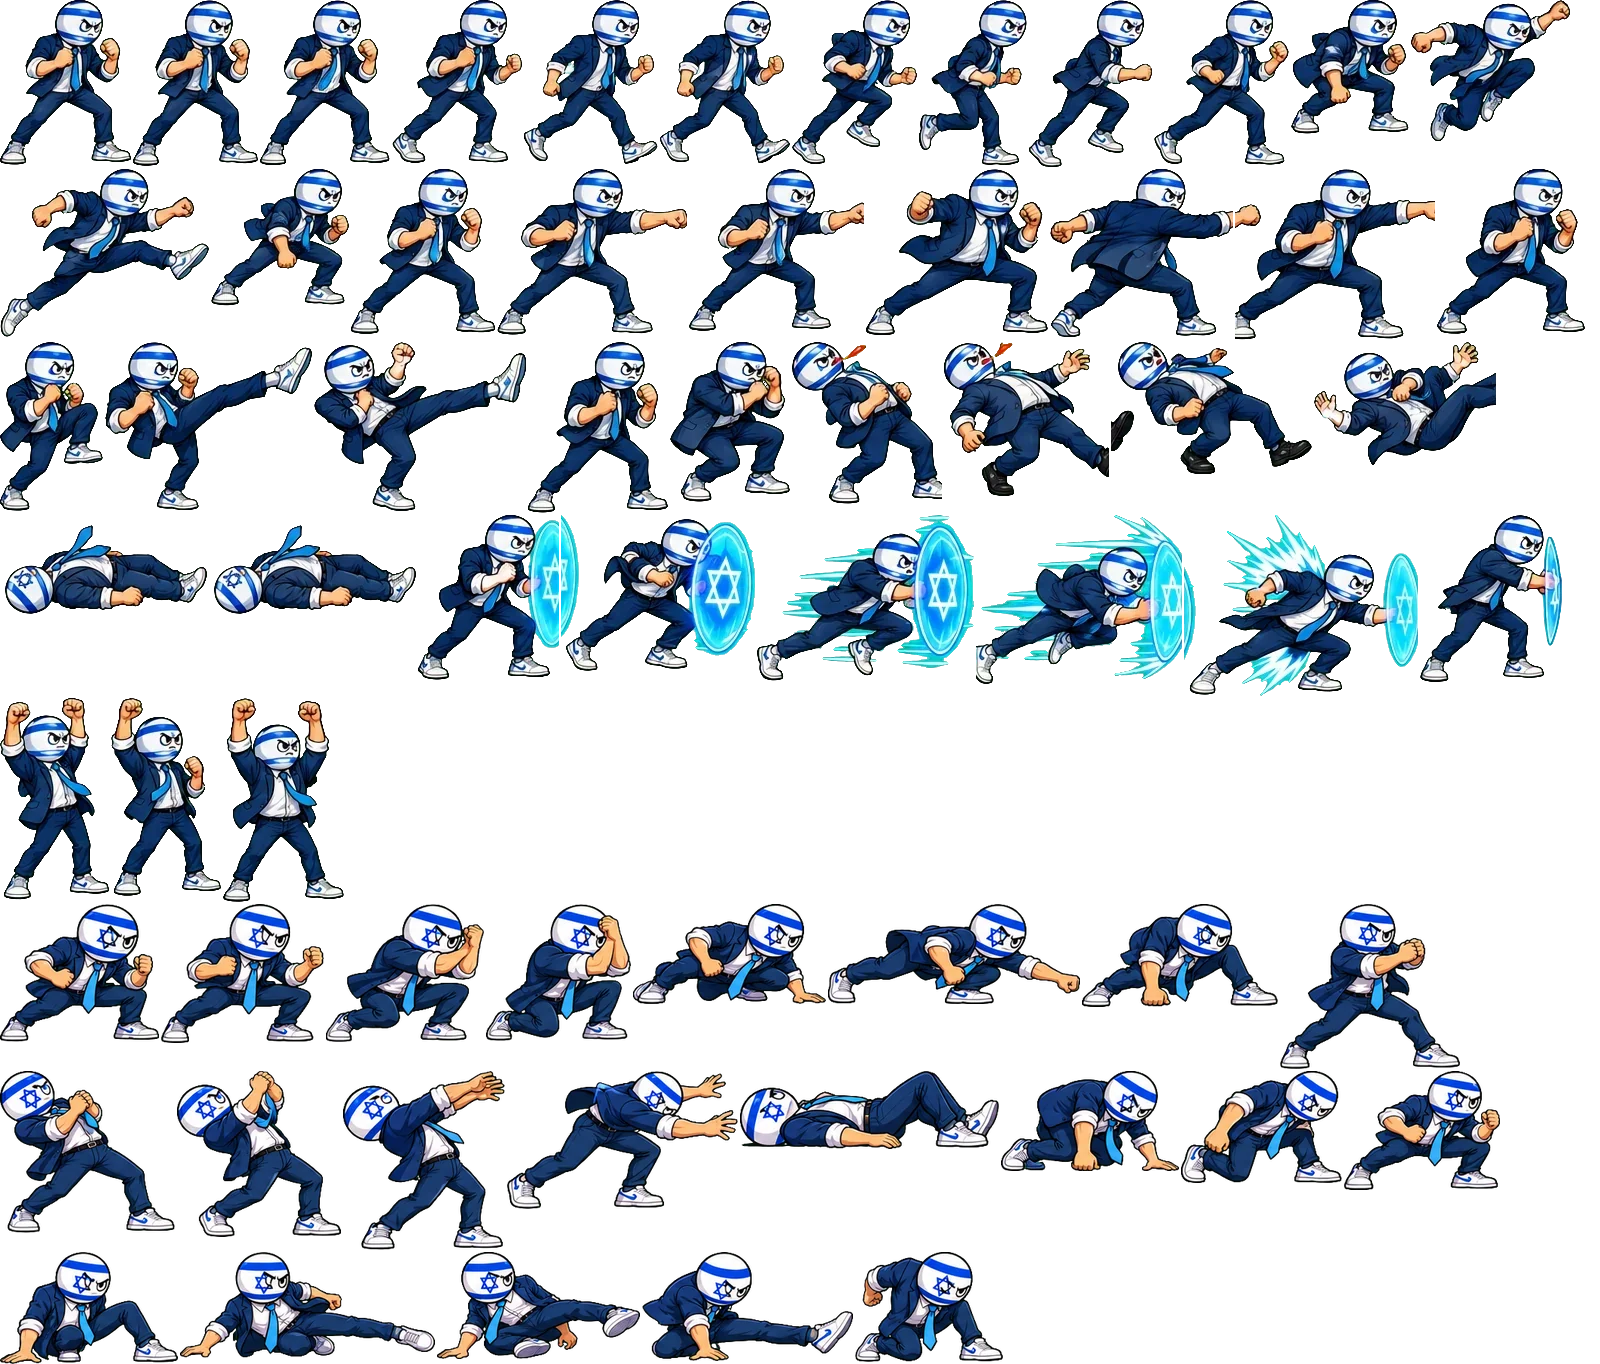
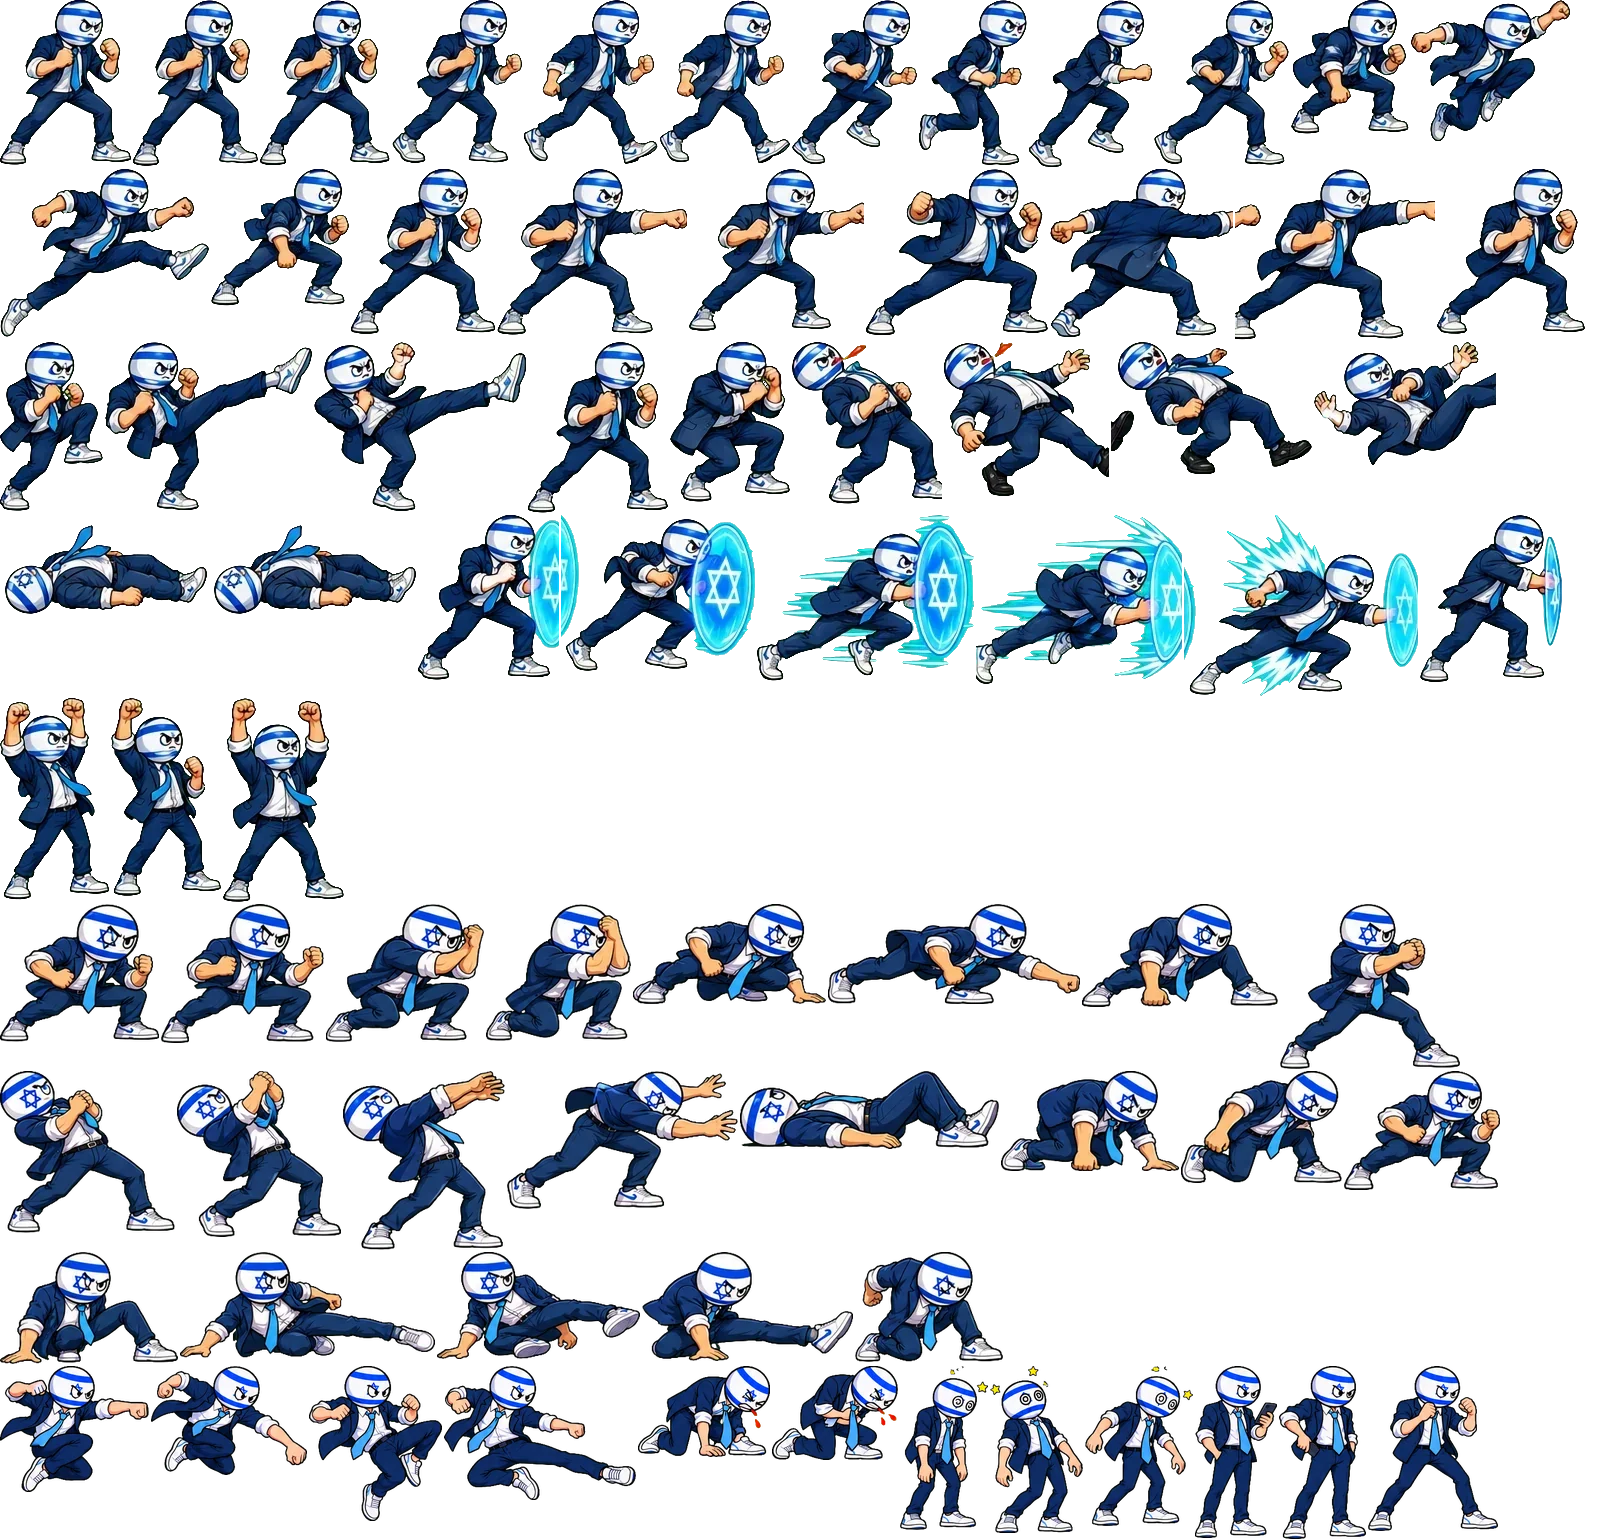
Presidents Brawl: Mister Israel jump attacks, crouch hit, dizzy and entrance frames
Claude-Session: https://claude.ai/code/session_01HtMgEDxgy3YeKCDKp7REeJ

diff --git a/brawl/index.html b/brawl/index.html
@@ -592,7 +592,7 @@ addSprite('qat',{"idle": [[0, 0, 143, 176, 68.4], [145, 0, 145, 176, 69.9], [292
 addSprite('eu',{"idle": [[0, 0, 104, 176, 50.3], [106, 0, 104, 175, 50.6], [212, 0, 107, 175, 51.8], [321, 0, 110, 176, 52.9]], "walk": [[433, 0, 105, 175, 49.6], [540, 0, 122, 175, 60.0], [664, 0, 116, 174, 56.5], [782, 0, 124, 175, 61.2], [908, 0, 121, 177, 59.6]], "jump": [[1031, 0, 98, 163, 52.4], [1131, 0, 105, 149, 51.9], [1238, 0, 97, 148, 47.7], [1337, 0, 103, 148, 54.0]], "jab": [[1442, 0, 112, 166, 50.3], [0, 179, 143, 162, 49.4], [145, 179, 112, 166, 50.3]], "heavy": [[259, 179, 127, 164, 43.2], [388, 179, 129, 163, 44.2], [519, 179, 135, 164, 46.4], [656, 179, 127, 166, 52.2]], "kick": [[785, 179, 123, 160, 34.4], [910, 179, 135, 158, 43.0], [1047, 179, 131, 154, 49.0], [1180, 179, 157, 138, 58.8]], "block": [[1339, 179, 93, 160, 42.4], [1434, 179, 92, 161, 44.1]], "hit": [[0, 347, 109, 148, 58.4], [111, 347, 110, 145, 63.5], [223, 347, 112, 144, 62.8]], "ko": [[337, 347, 147, 134, 60.4], [486, 347, 159, 100, 74.7], [647, 347, 160, 58, 72.5], [809, 347, 166, 51, 72.7]], "super": [[977, 347, 98, 145, 45.3], [1077, 347, 134, 146, 54.0], [1213, 347, 176, 140, 55.9], [0, 497, 243, 137, 51.5], [245, 497, 262, 141, 52.3]], "proj": [[509, 497, 136, 89, 50.7]], "win": [[647, 497, 66, 127, 37.6], [715, 497, 68, 128, 30.4], [785, 497, 60, 125, 24.8]], "crouch": [[0, 640, 160, 152, 74.4], [162, 640, 165, 153, 73.2]], "cblock": [[329, 640, 165, 151, 71.9], [496, 640, 156, 152, 58.5]], "lowp": [[654, 640, 232, 111, 155.4], [888, 640, 293, 113, 186.3], [1183, 640, 212, 119, 127.8]], "grab": [[0, 795, 205, 176, 101.3], [207, 795, 193, 177, 50.3], [402, 795, 182, 176, 46.3], [586, 795, 186, 186, 67.4], [774, 795, 256, 152, 148.9]], "getup": [[1032, 795, 264, 89, 116.2], [1298, 795, 191, 106, 96.6], [0, 983, 173, 112, 97.7], [175, 983, 172, 121, 98.4]], "sweep": [[349, 983, 210, 119, 84.5], [561, 983, 266, 117, 74.4], [829, 983, 226, 117, 55.1], [1057, 983, 221, 119, 72.4], [1280, 983, 166, 126, 71.9]]},'img/eu.webp',0.77);
 addSprite('chn',{"idle": [[0, 0, 161, 208, 77.4], [163, 0, 163, 208, 77.6], [328, 0, 171, 208, 84.3], [501, 0, 166, 208, 80.1]], "walk": [[669, 0, 187, 215, 91.4], [858, 0, 182, 215, 90.2], [1042, 0, 182, 214, 94.8], [1226, 0, 184, 216, 91.2]], "jump": [[1412, 0, 161, 164, 90.4], [0, 218, 162, 193, 85.9], [164, 218, 145, 180, 79.2], [311, 218, 203, 184, 114.7]], "jab": [[516, 218, 222, 197, 110.3], [740, 218, 269, 196, 116.3], [1011, 218, 220, 197, 107.6]], "heavy": [[1233, 218, 194, 194, 97.7], [0, 417, 229, 195, 108.7], [231, 417, 254, 195, 128.8], [487, 417, 203, 197, 99.5]], "kick": [[692, 417, 233, 188, 39.8], [927, 417, 154, 192, 40.1], [1083, 417, 280, 136, 102.1], [1365, 417, 202, 159, 98.7]], "block": [[0, 616, 201, 236, 94.3], [203, 616, 202, 240, 94.4]], "hit": [[407, 616, 182, 232, 84.8], [591, 616, 197, 238, 93.2]], "ko": [[790, 616, 226, 221, 92.7], [1018, 616, 266, 186, 120.8], [1286, 616, 258, 124, 107.8], [0, 858, 285, 83, 134.6]], "super": [[287, 858, 182, 265, 87.9], [471, 858, 186, 271, 80.3], [659, 858, 200, 261, 68.2], [861, 858, 333, 253, 100.0], [1196, 858, 259, 203, 100.5]], "win": [[0, 1131, 160, 253, 75.1], [162, 1131, 139, 227, 52.3], [303, 1131, 131, 255, 49.2]], "crouch": [[0, 1388, 275, 185, 136.2], [277, 1388, 256, 185, 130.3]], "cblock": [[535, 1388, 244, 183, 104.9], [781, 1388, 213, 184, 95.1]], "lowp": [[996, 1388, 316, 139, 201.8], [0, 1575, 361, 141, 229.8], [363, 1575, 279, 142, 144.9]], "grab": [[644, 1575, 293, 208, 159.2], [939, 1575, 267, 205, 97.2], [1208, 1575, 261, 210, 114.9], [0, 1787, 223, 225, 119.3], [225, 1787, 294, 192, 165.6]], "getup": [[521, 1787, 355, 125, 174.2], [878, 1787, 250, 141, 126.0], [1130, 1787, 254, 138, 135.9], [0, 2014, 290, 137, 155.5]], "sweep": [[292, 2014, 351, 153, 127.6], [645, 2014, 357, 151, 142.6], [1004, 2014, 294, 158, 116.7], [0, 2174, 320, 146, 117.6], [322, 2174, 244, 165, 119.8]]},'img/chn.webp',0.72);
 addSprite('nk',{"idle": [[0, 0, 125, 152, 59.5], [127, 0, 127, 152, 60.5], [256, 0, 125, 152, 59.3], [383, 0, 126, 151, 60.0]], "walk": [[511, 0, 128, 155, 62.3], [641, 0, 134, 156, 68.4], [777, 0, 131, 156, 65.8], [910, 0, 134, 155, 66.9], [1046, 0, 144, 155, 72.2]], "jump": [[1192, 0, 144, 147, 68.4], [1338, 0, 119, 136, 62.0], [1459, 0, 113, 137, 54.2], [0, 158, 165, 156, 73.2]], "jab": [[167, 158, 159, 163, 56.2], [328, 158, 172, 164, 80.7], [502, 158, 159, 163, 56.2]], "heavy": [[663, 158, 134, 178, 64.0], [799, 158, 130, 152, 63.7], [931, 158, 145, 183, 63.5], [1078, 158, 168, 158, 72.5]], "kick": [[1248, 158, 155, 160, 49.1], [1405, 158, 159, 160, 56.7], [0, 343, 155, 160, 49.1], [157, 343, 159, 160, 56.7]], "block": [[318, 343, 115, 161, 51.4], [435, 343, 115, 161, 51.4]], "hit": [[552, 343, 151, 155, 82.6], [705, 343, 152, 152, 91.2]], "ko": [[859, 343, 164, 127, 70.9], [1025, 343, 177, 123, 73.2], [1204, 343, 189, 81, 88.7], [1395, 343, 149, 68, 70.7]], "super": [[0, 506, 179, 159, 59.5], [181, 506, 166, 161, 59.9], [349, 506, 186, 164, 68.6], [537, 506, 148, 154, 71.2], [687, 506, 140, 146, 64.0], [829, 506, 284, 152, 78.9]], "proj": [[1115, 506, 270, 59, 90.8]], "win": [[1387, 506, 112, 144, 52.7], [0, 672, 108, 137, 48.7], [110, 672, 92, 135, 43.1]], "crouch": [[0, 811, 182, 132, 88.9], [184, 811, 180, 132, 88.1]], "cblock": [[366, 811, 178, 131, 85.3], [546, 811, 170, 131, 81.5]], "lowp": [[718, 811, 214, 113, 144.1], [934, 811, 262, 107, 163.4], [1198, 811, 178, 113, 123.9]], "grab": [[1378, 811, 193, 152, 96.1], [0, 965, 159, 152, 59.2], [161, 965, 150, 152, 50.9], [313, 965, 149, 157, 56.6], [464, 965, 237, 145, 119.7]], "getup": [[703, 965, 249, 111, 115.0], [954, 965, 181, 108, 94.6], [1137, 965, 176, 104, 95.9], [1315, 965, 171, 123, 83.4]], "sweep": [[0, 1124, 210, 113, 106.1], [212, 1124, 231, 109, 89.2], [445, 1124, 216, 110, 83.2], [663, 1124, 194, 111, 98.6], [859, 1124, 157, 120, 94.6]]},'img/nk.webp',.82);
-addSprite('isr',{"idle": [[0, 0, 131, 165, 65.8], [133, 0, 125, 166, 62.0], [260, 0, 130, 165, 65.2], [392, 0, 130, 163, 56.9]], "walk": [[524, 0, 134, 164, 71.2], [660, 0, 130, 163, 64.6], [792, 0, 125, 164, 33.4], [919, 0, 108, 165, 63.9], [1029, 0, 123, 167, 39.2], [1154, 0, 135, 165, 66.8]], "jump": [[1291, 0, 118, 134, 61.2], [1411, 0, 159, 141, 72.4], [0, 169, 209, 168, 103.0], [211, 169, 138, 137, 83.7]], "jab": [[351, 169, 144, 165, 72.0], [497, 169, 190, 166, 79.0], [689, 169, 175, 162, 71.2]], "heavy": [[866, 169, 182, 166, 91.6], [1050, 169, 183, 168, 82.8], [1235, 169, 200, 171, 89.6], [1437, 169, 148, 165, 73.2]], "kick": [[0, 342, 103, 169, 15.1], [105, 342, 207, 168, 70.6], [314, 342, 212, 169, 78.1], [528, 342, 140, 171, 69.9]], "block": [[670, 342, 120, 160, 60.5]], "hit": [[792, 342, 150, 162, 91.0], [944, 342, 165, 154, 64.2]], "ko": [[1111, 342, 201, 132, 86.5], [1314, 342, 182, 123, 93.7], [0, 515, 207, 99, 92.4], [209, 515, 207, 99, 92.4]], "super": [[418, 515, 141, 165, 64.6], [561, 515, 194, 156, 86.0], [757, 515, 217, 166, 88.8], [976, 515, 206, 169, 101.0], [1184, 515, 234, 181, 87.5], [1420, 515, 142, 167, 59.9]], "win": [[0, 698, 109, 202, 53.7], [111, 698, 110, 198, 53.4], [223, 698, 121, 204, 59.1]], "crouch": [[0, 904, 159, 138, 78.9], [161, 904, 163, 139, 77.0]], "cblock": [[326, 904, 158, 138, 66.4], [486, 904, 145, 137, 64.3]], "lowp": [[633, 904, 193, 100, 127.3], [828, 904, 252, 100, 152.5], [1082, 904, 196, 103, 109.7]], "grab": [[1280, 904, 180, 165, 92.4], [0, 1071, 175, 162, 43.7], [177, 1071, 164, 166, 56.1], [343, 1071, 162, 179, 76.3], [507, 1071, 231, 138, 134.7]], "getup": [[740, 1071, 259, 78, 123.9], [1001, 1071, 178, 100, 89.9], [1181, 1071, 161, 112, 85.6], [1344, 1071, 156, 119, 78.8]], "sweep": [[0, 1252, 178, 112, 82.0], [180, 1252, 255, 106, 83.0], [437, 1252, 203, 107, 54.8], [642, 1252, 211, 109, 76.8], [855, 1252, 148, 110, 67.9]]},'img/isr.webp',0.85);
+addSprite('isr',{"idle": [[0, 0, 131, 165, 65.8], [133, 0, 125, 166, 62.0], [260, 0, 130, 165, 65.2], [392, 0, 130, 163, 56.9]], "walk": [[524, 0, 134, 164, 71.2], [660, 0, 130, 163, 64.6], [792, 0, 125, 164, 33.4], [919, 0, 108, 165, 63.9], [1029, 0, 123, 167, 39.2], [1154, 0, 135, 165, 66.8]], "jump": [[1291, 0, 118, 134, 61.2], [1411, 0, 159, 141, 72.4], [0, 169, 209, 168, 103.0], [211, 169, 138, 137, 83.7]], "jab": [[351, 169, 144, 165, 72.0], [497, 169, 190, 166, 79.0], [689, 169, 175, 162, 71.2]], "heavy": [[866, 169, 182, 166, 91.6], [1050, 169, 183, 168, 82.8], [1235, 169, 200, 171, 89.6], [1437, 169, 148, 165, 73.2]], "kick": [[0, 342, 103, 169, 15.1], [105, 342, 207, 168, 70.6], [314, 342, 212, 169, 78.1], [528, 342, 140, 171, 69.9]], "block": [[670, 342, 120, 160, 60.5]], "hit": [[792, 342, 150, 162, 91.0], [944, 342, 165, 154, 64.2]], "ko": [[1111, 342, 201, 132, 86.5], [1314, 342, 182, 123, 93.7], [0, 515, 207, 99, 92.4], [209, 515, 207, 99, 92.4]], "super": [[418, 515, 141, 165, 64.6], [561, 515, 194, 156, 86.0], [757, 515, 217, 166, 88.8], [976, 515, 206, 169, 101.0], [1184, 515, 234, 181, 87.5], [1420, 515, 142, 167, 59.9]], "win": [[0, 698, 109, 202, 53.7], [111, 698, 110, 198, 53.4], [223, 698, 121, 204, 59.1]], "crouch": [[0, 904, 159, 138, 78.9], [161, 904, 163, 139, 77.0]], "cblock": [[326, 904, 158, 138, 66.4], [486, 904, 145, 137, 64.3]], "lowp": [[633, 904, 193, 100, 127.3], [828, 904, 252, 100, 152.5], [1082, 904, 196, 103, 109.7]], "grab": [[1280, 904, 180, 165, 92.4], [0, 1071, 175, 162, 43.7], [177, 1071, 164, 166, 56.1], [343, 1071, 162, 179, 76.3], [507, 1071, 231, 138, 134.7]], "getup": [[740, 1071, 259, 78, 123.9], [1001, 1071, 178, 100, 89.9], [1181, 1071, 161, 112, 85.6], [1344, 1071, 156, 119, 78.8]], "sweep": [[0, 1252, 178, 112, 82.0], [180, 1252, 255, 106, 83.0], [437, 1252, 203, 107, 54.8], [642, 1252, 211, 109, 76.8], [855, 1252, 148, 110, 67.9]], "airp": [[0, 1366, 149, 126, 61.6], [151, 1366, 156, 109, 67.1]], "airk": [[309, 1366, 133, 155, 67.8], [444, 1366, 192, 134, 73.0]], "chit": [[638, 1366, 132, 91, 64.1], [772, 1366, 126, 94, 53.5]], "dizzy": [[900, 1366, 88, 164, 35.0], [990, 1366, 93, 167, 43.0], [1085, 1366, 108, 160, 48.0]], "intro": [[1195, 1366, 82, 172, 32.9], [1279, 1366, 87, 173, 43.2], [1368, 1366, 130, 165, 64.8]]},'img/isr.webp',0.85);
 let SQ=1,ROT=0;
 function sprFrame(f,time,M){
  const st=f.state;SQ=1;ROT=0;const L=n=>M[n]?M[n].length:1,has=n=>!!M[n];
